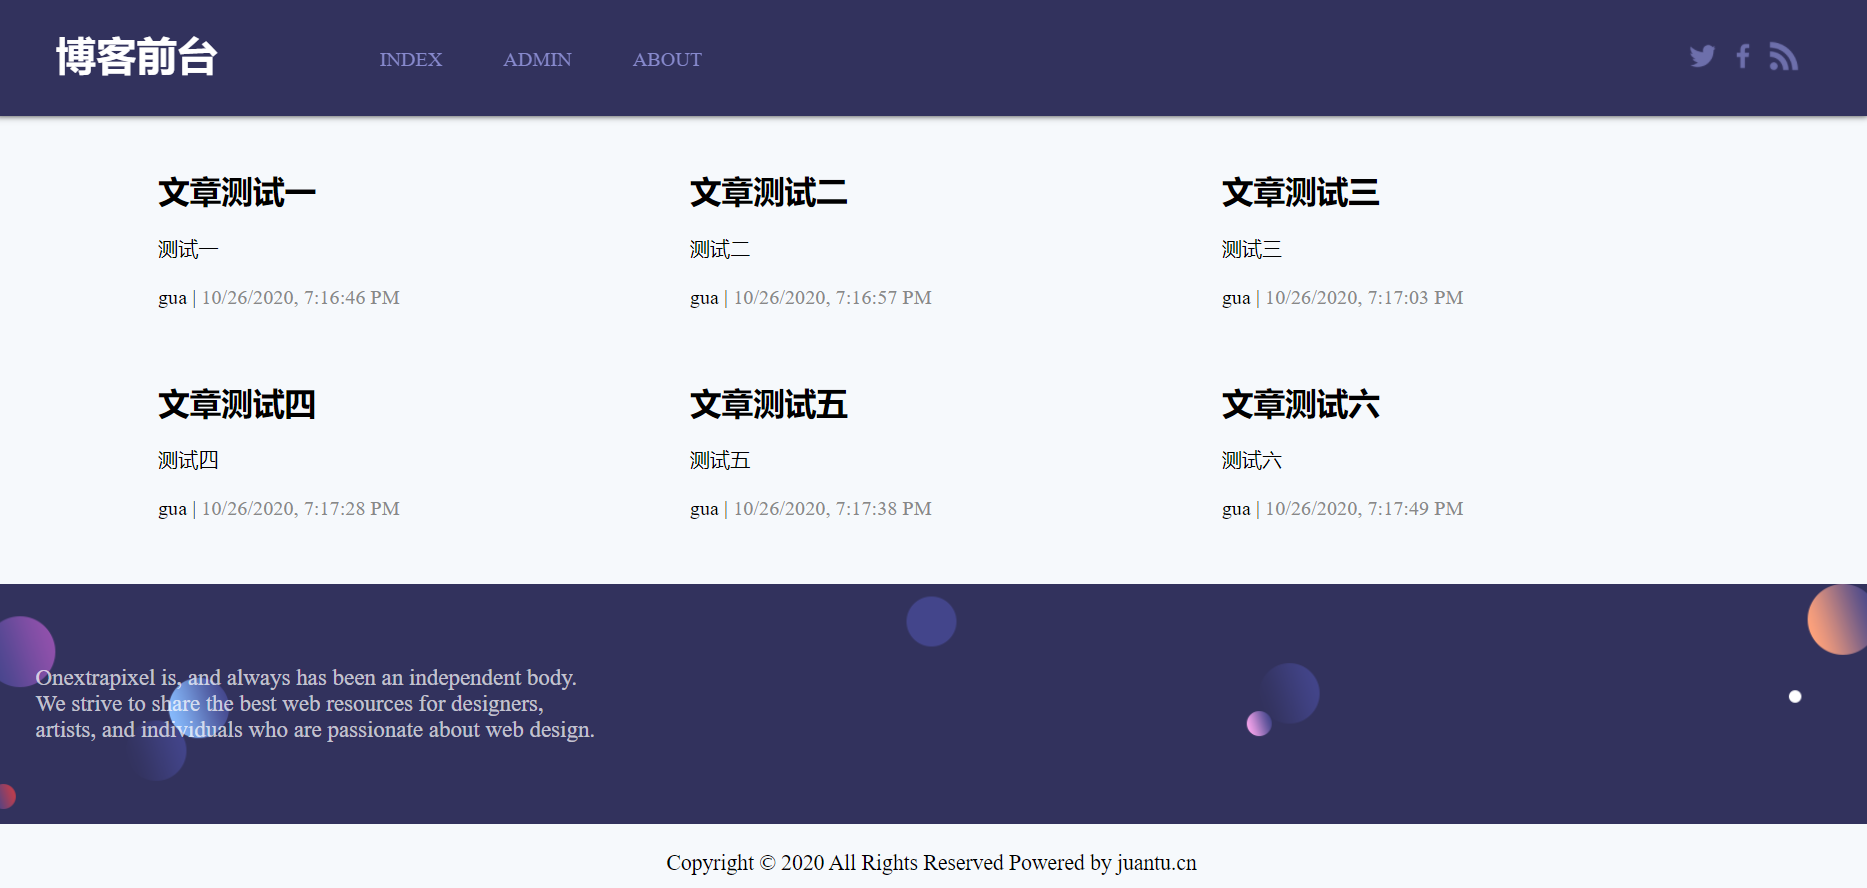
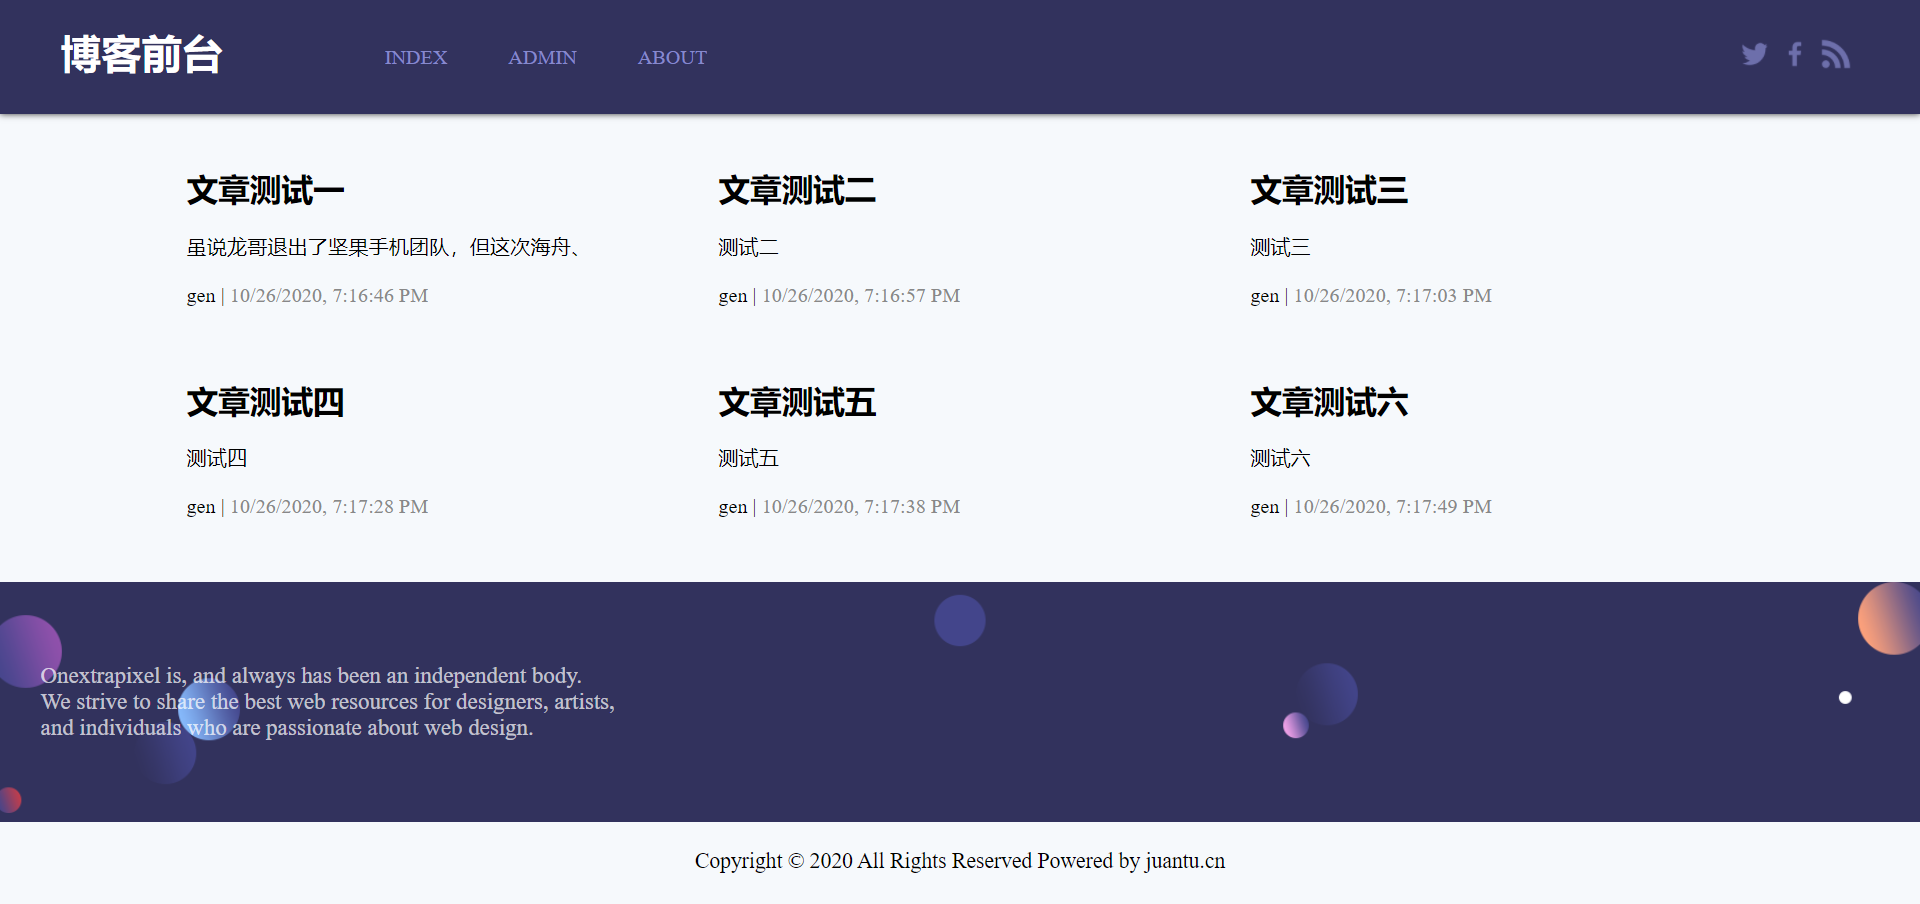
JsBlog 1.0.2

diff --git a/static/js/postPage.js b/static/js/postPage.js
@@ -2,10 +2,11 @@ var titleTemplate = function(blog) {
     var title = blog.title
     var d = new Date(blog.created_time * 1000)
     var time = d.toLocaleString() 
+    var author = blog.author
     var t = `
     <h2>${title}</h2>
     <span class="author">
-        gua
+        ${author}
     </span>
     <ver-line></ver-line>
     <span class="date">
